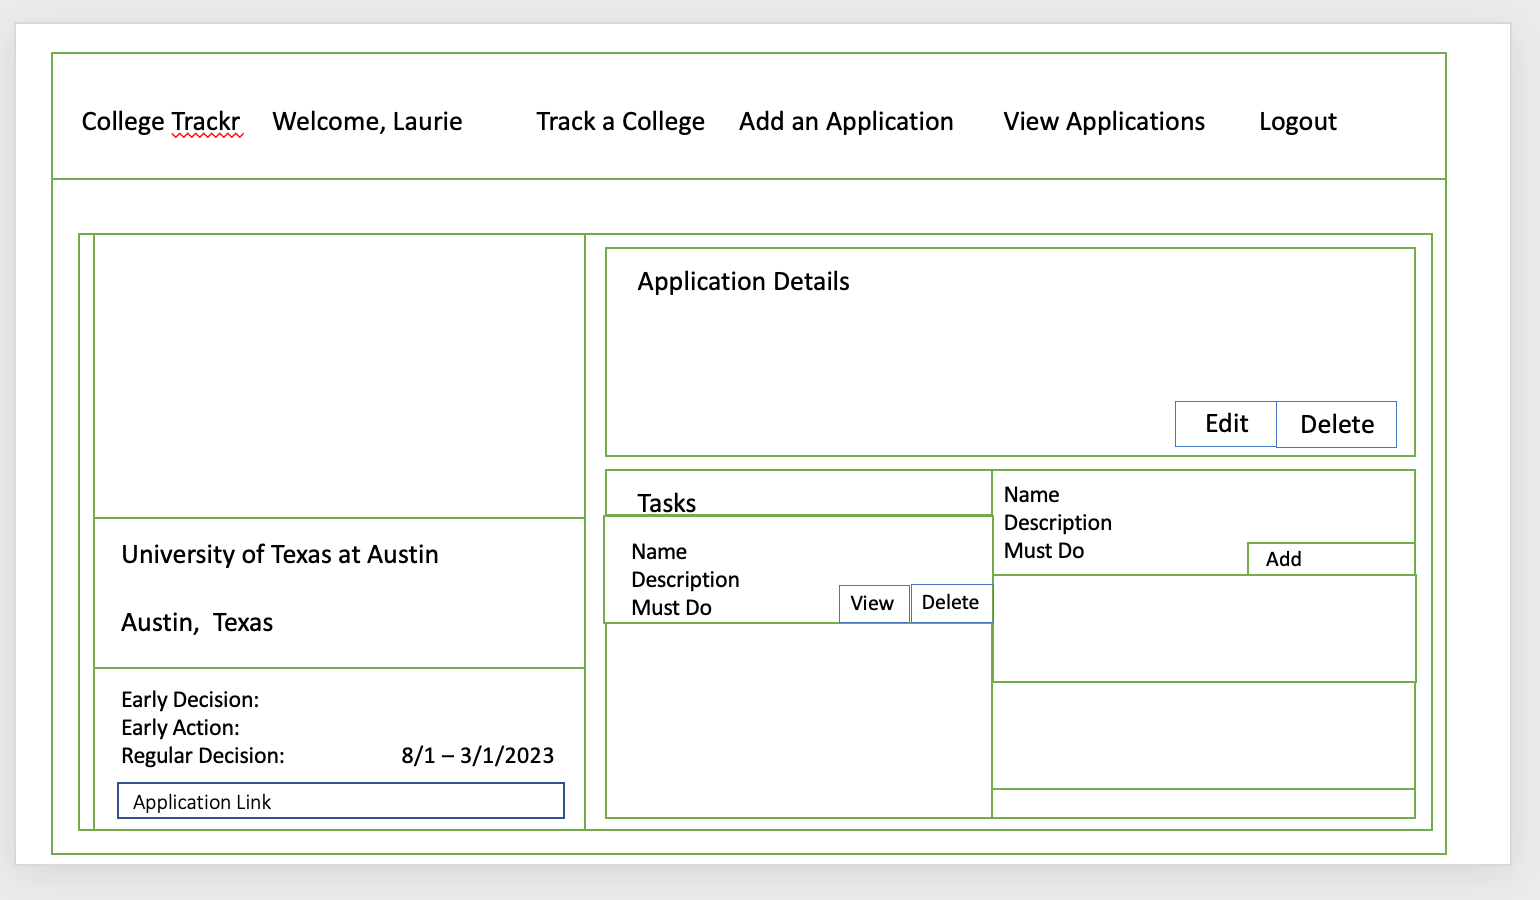
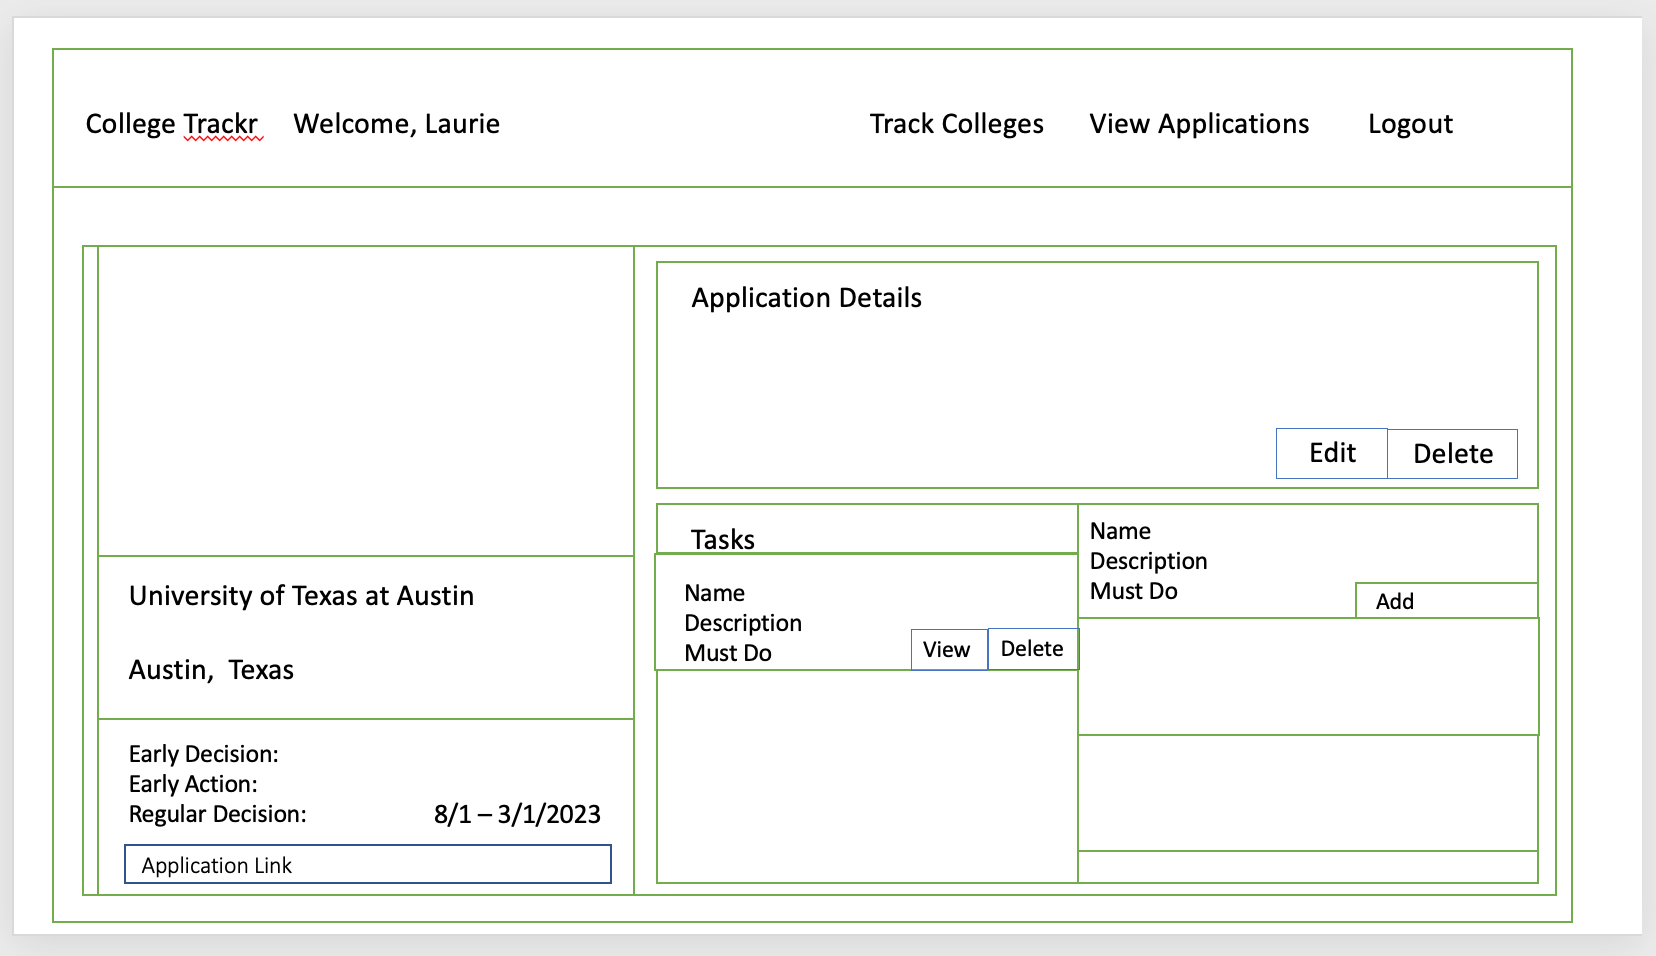
Modified Wire Frames and added Applications

Changed region(s): [[0.0, 0.0, 0.9974, 0.9956], [0.3429, 0.1244, 0.6234, 0.1556], [0.6545, 0.1244, 0.8727, 0.1556]]

diff --git a/README.md b/README.md
@@ -69,14 +69,20 @@ Parents and Students can save the colleges they've selected, track the college a
 ## Signup/Login
 ![Login](assets/signupandlogin.png)
 
-## CollegeTrackr
-![Index](assets/index.png)
-
 ## Track Colleges
 ![TrackColleges](assets/trackcolleges.png)
 
+## CollegeTrackr
+![Index](assets/index.png)
+
+## New Application
+![NewApp](assets/newapplication.png)
+
 ## College Tracking Full Details
 ![TrackCollegeDetails](assets/collegetrackingdetails.png)
+
+## View Application
+![ViewApp](assets/viewapplications.png)
 
 # ERD
 ![ERD](assets/collegetrackr_erd.png)
